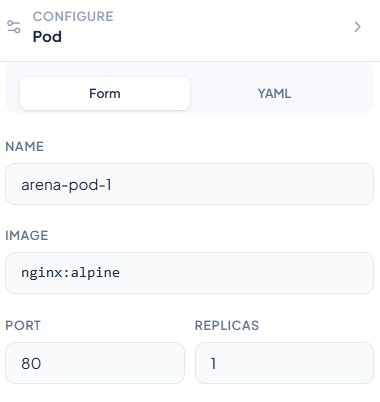
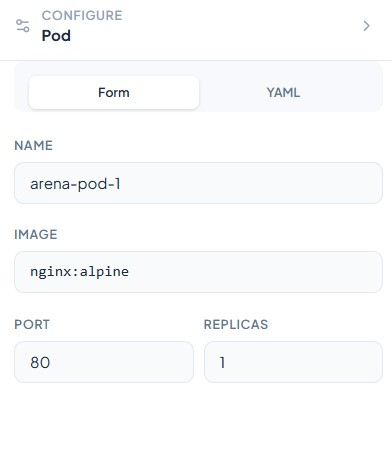
fix: footer pricing link, mobile docs sidebar, about beginner focus, faq clusters

diff --git a/src/app/about/page.tsx b/src/app/about/page.tsx
@@ -80,31 +80,34 @@ export default function AboutPage() {
             <div className="mb-4 inline-flex rounded-lg bg-primary/10 p-3">
               <BookOpen className="h-6 w-6 text-primary" aria-hidden="true" />
             </div>
-            <h2 className="text-2xl font-bold text-foreground sm:text-3xl">Our Story</h2>
+            <h2 className="text-2xl font-bold text-foreground sm:text-3xl">Our Goal</h2>
             <div className="mt-6 space-y-4 text-muted-foreground leading-relaxed">
               <p>
-                Kubernetes has become the industry standard for container orchestration  but its
-                learning curve is brutal. YAML manifests, kubectl commands, cryptic error messages,
-                and terminal-heavy workflows create unnecessary friction for newcomers.
+                Kubernetes is powerful, but let's be honest  it's intimidating. YAML manifests,
+                kubectl commands, cryptic errors, and terminal-heavy workflows make it feel
+                like you need a year of DevOps experience just to deploy a simple app.
               </p>
               <p>
-                We asked a simple question: <em>what if learning Kubernetes felt like playing with
-                building blocks instead of decoding a terminal?</em>
+                <strong>Podex is built for freshers and beginners.</strong> Not for production
+                engineers managing thousands of nodes. Not for SREs debugging mesh networks.
+                For students, hobbyists, and anyone who just wants to <em>learn Kubernetes</em>
+                without getting lost in the complexity.
               </p>
               <p>
-                Podex was born as a local, visual Kubernetes cluster examiner. We started with a
-                dashboard and explorer, then added the Arena (drag-and-drop playground), the AI
-                Concept Tutor, live debugging tools, and topology visualization  all designed
-                around one principle: <strong>make K8s visual and interactive</strong>.
+                We don't deal with complex multi-cluster setups, enterprise RBAC policies,
+                or advanced networking. We deal with <strong>Minikube, Kind, and Docker Desktop
+                K8s</strong>  the tools beginners actually use to practice. If you're running
+                a production cluster with thousands of pods, Podex probably isn't for you
+                (and honestly, you don't need us).
               </p>
               <p>
-                Today Podex runs entirely via Docker Compose. No data leaves your machine. It
-                inherits your exact kubectl permissions. And it works with any local cluster  Kind,
-                Minikube, or Docker Desktop K8s.
+                Everything we build  the visual dashboard, the drag-and-drop Arena, the AI
+                Concept Tutor  is designed around one question: <em>"How do I make Kubernetes
+                click for someone who's never touched it before?"</em>
               </p>
               <p>
-                We're early, open source, and building for the community. If you're learning
-                Kubernetes, Podex is for you.
+                If you're learning K8s and you have a local cluster, you're exactly who we built
+                this for.
               </p>
             </div>
           </AnimatedSection>

diff --git a/src/components/home/faq.tsx b/src/components/home/faq.tsx
@@ -17,7 +17,7 @@ const faqs = [
   {
     question: "Is it a desktop app I need to install?",
     answer:
-      "No  Podex runs as a Docker Compose stack. You clone the repo, run 'docker compose up --build', and open http://localhost:5173 in your browser. No native installers, no .msi or .dmg files.",
+      "No  Podex runs as a Docker Compose stack. You clone the repo, run 'docker compose up --build', and open http://localhost:3000 in your browser. No native installers, no .msi or .dmg files.",
   },
   {
     question: "Is Podex free?",
@@ -27,7 +27,7 @@ const faqs = [
   {
     question: "Does it work with any Kubernetes cluster?",
     answer:
-      "Yes. Podex loads your active context from ~/.kube/config and supports any cluster authentication scheme: local certificates, OIDC tokens, username/password, and AWS IAM Authenticator. It works with Kind, Minikube, Docker Desktop K8s, EKS, GKE, AKS, and more.",
+      "We focus on beginners with limited resources who run Minikube or Kind for practice. Podex works great with local clusters like Kind, Minikube, and Docker Desktop K8s. While it can technically connect to other clusters, our design and testing is optimized for local learning environments  not production-grade setups.",
   },
   {
     question: "Do I need a Kubernetes cluster to use it?",

diff --git a/src/app/docs/page.tsx b/src/app/docs/page.tsx
@@ -15,6 +15,7 @@ const categoryIcons: Record<string, React.ReactNode> = {
 
 export default function DocsPage() {
   const [query, setQuery] = useState("");
+  const [sidebarOpen, setSidebarOpen] = useState(false);
   const categories = Object.keys(docsByCategory);
 
   const filtered = query.trim()
@@ -28,8 +29,15 @@ export default function DocsPage() {
     <div className="min-h-[calc(100vh-4rem)] bg-background">
       <div className="mx-auto max-w-7xl px-4 sm:px-6 lg:px-8 py-12">
         <div className="lg:grid lg:grid-cols-[260px_1fr] lg:gap-12">
-          {/* Sidebar */}
-          <aside className="mb-8 lg:mb-0">
+          <button
+            onClick={() => setSidebarOpen(!sidebarOpen)}
+            className="flex items-center gap-2 text-sm font-medium text-primary mb-4 lg:hidden"
+          >
+            <svg className={`h-4 w-4 transition-transform ${sidebarOpen ? "rotate-90" : ""}`} fill="none" viewBox="0 0 24 24" stroke="currentColor" strokeWidth="2"><path strokeLinecap="round" strokeLinejoin="round" d="M9 5l7 7-7 7" /></svg>
+            {sidebarOpen ? "Hide sidebar" : "Show documentation list"}
+          </button>
+
+          <aside className={`${sidebarOpen ? "block" : "hidden"} lg:block mb-8 lg:mb-0`}>
             <DocSidebar />
           </aside>
 

diff --git a/src/app/docs/[slug]/page.tsx b/src/app/docs/[slug]/page.tsx
@@ -44,8 +44,16 @@ export default async function DocPage({
     <div className="min-h-[calc(100vh-4rem)] bg-background">
       <div className="mx-auto max-w-7xl px-4 sm:px-6 lg:px-8 py-12">
         <div className="lg:grid lg:grid-cols-[260px_1fr] lg:gap-12">
-          {/* Sidebar */}
-          <aside className="mb-8 lg:mb-0">
+          <details className="lg:hidden mb-4 group">
+            <summary className="flex cursor-pointer items-center gap-2 text-sm font-medium text-primary list-none">
+              <svg className="h-4 w-4 transition-transform group-open:rotate-90" fill="none" viewBox="0 0 24 24" stroke="currentColor" strokeWidth="2"><path strokeLinecap="round" strokeLinejoin="round" d="M9 5l7 7-7 7" /></svg>
+              Documentation list
+            </summary>
+            <div className="mt-3">
+              <DocSidebar currentSlug={slug} />
+            </div>
+          </details>
+          <aside className="hidden lg:block mb-8 lg:mb-0">
             <DocSidebar currentSlug={slug} />
           </aside>
 

diff --git a/src/components/layout/footer.tsx b/src/components/layout/footer.tsx
@@ -4,7 +4,7 @@ import { navigation } from "@/lib/content-data";
 
 const footerLinks = {
   product: [
-    { title: "Features", href: "/features" },
+    { title: "Pricing", href: "/pricing" },
     { title: "Download", href: "/download" },
     { title: "Documentation", href: "/docs" },
   ],
